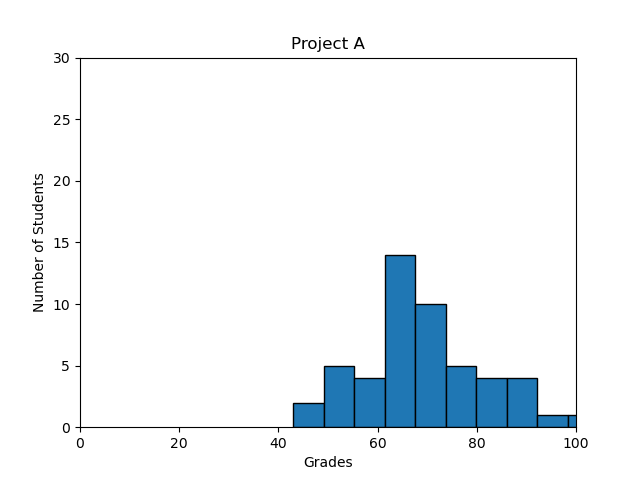
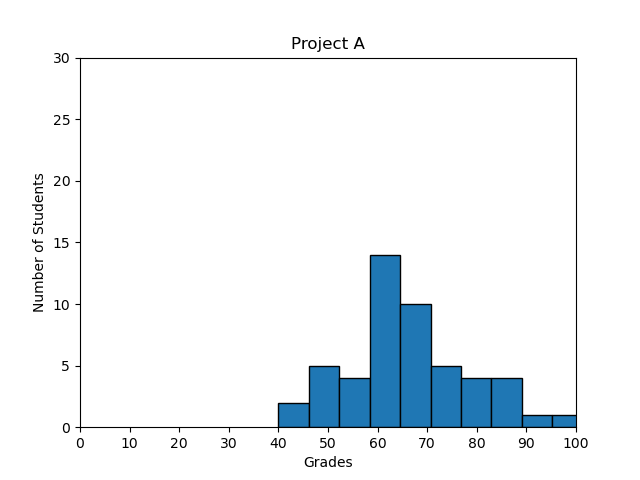
align left

diff --git a/math/plotting/4-frequency.py b/math/plotting/4-frequency.py
@@ -14,12 +14,12 @@ def frequency():
     plt.figure(figsize=(6.4, 4.8))
 
     # your code here
-    plt.hist(student_grades, bins=10, edgecolor='black')
+    plt.hist(student_grades, bins=10, align='left', edgecolor='black')
     plt.xlabel('Grades')
     plt.ylabel('Number of Students')
     plt.title('Project A')
     plt.xlim(0, 100)
-    #plt.xticks(np.arange(0, 101, 10))
-    plt.ylim(0, 30)
+    plt.xticks(np.arange(0, 101, 10))
+    #plt.ylim(0, 30)
     plt.yticks(np.arange(0, 31, 5))
     plt.show()
